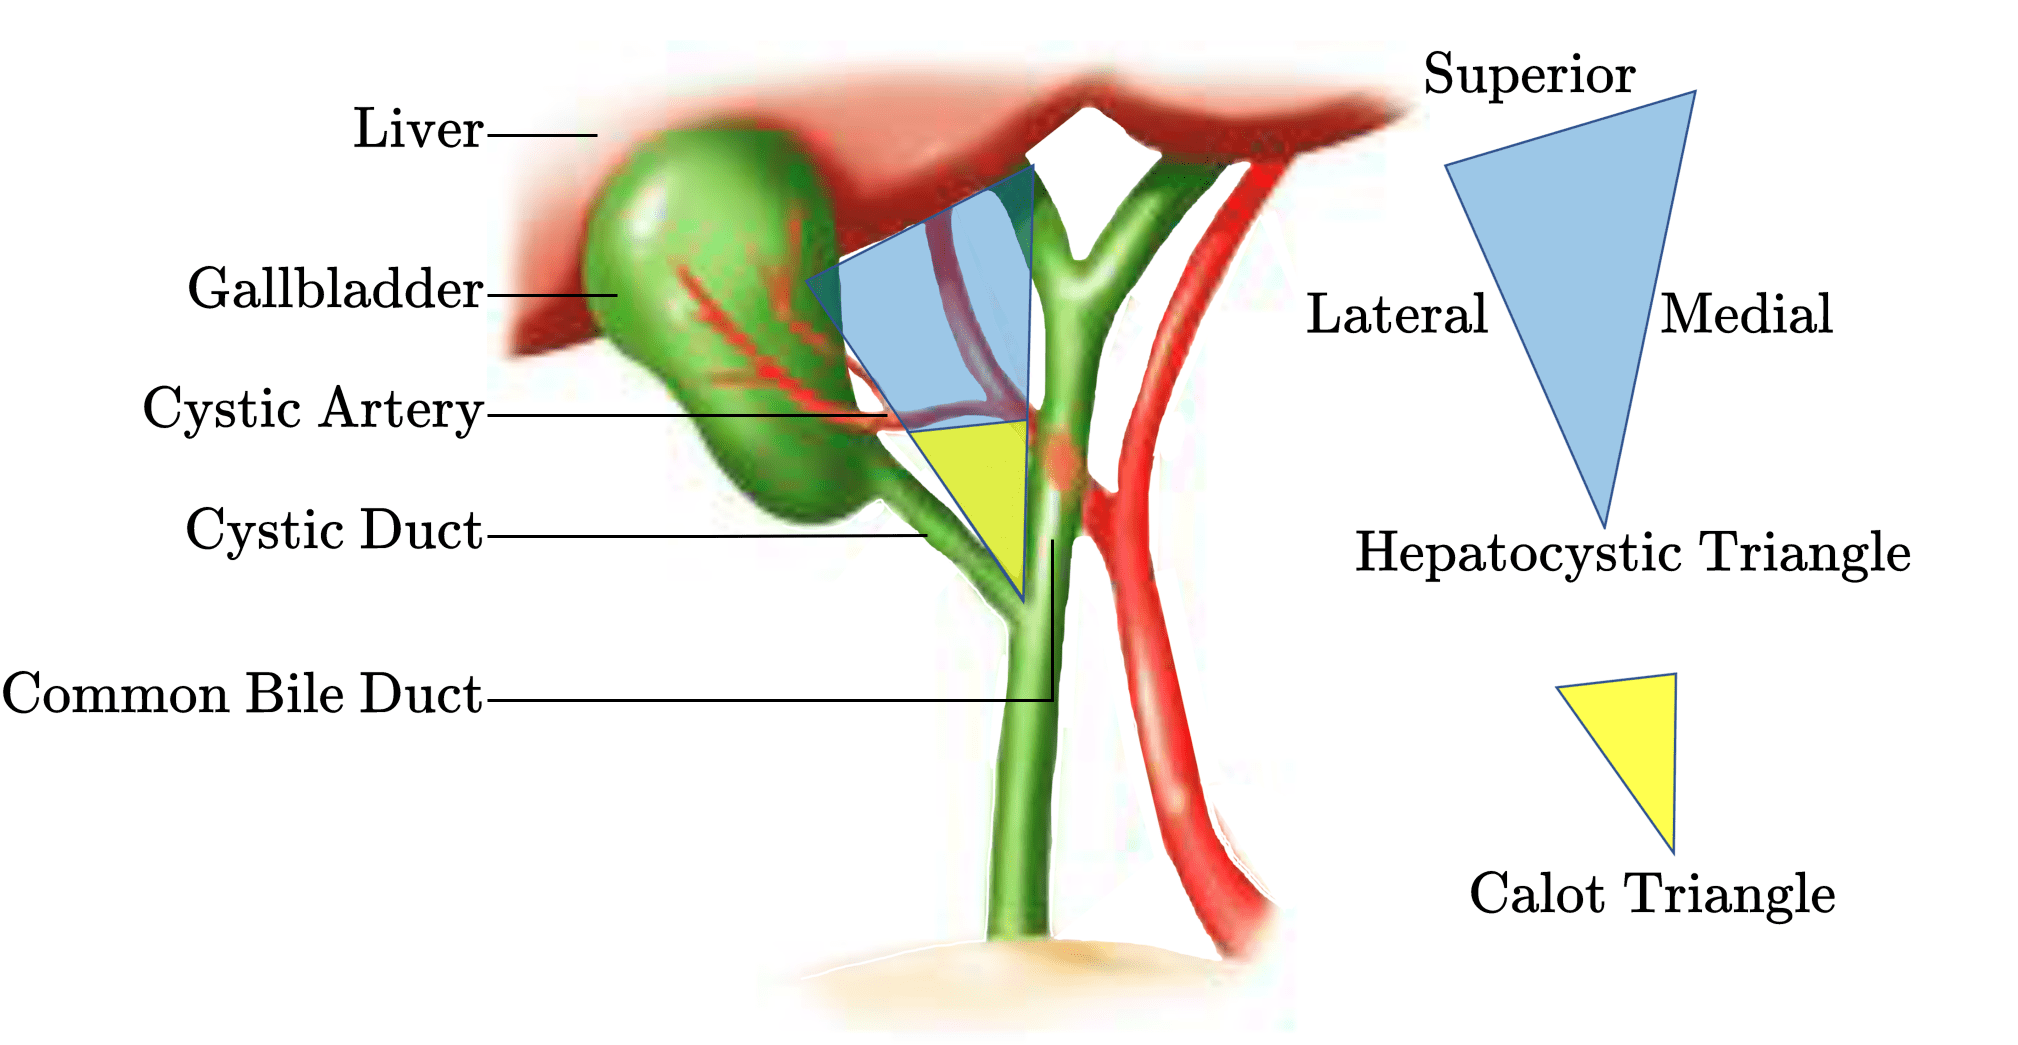
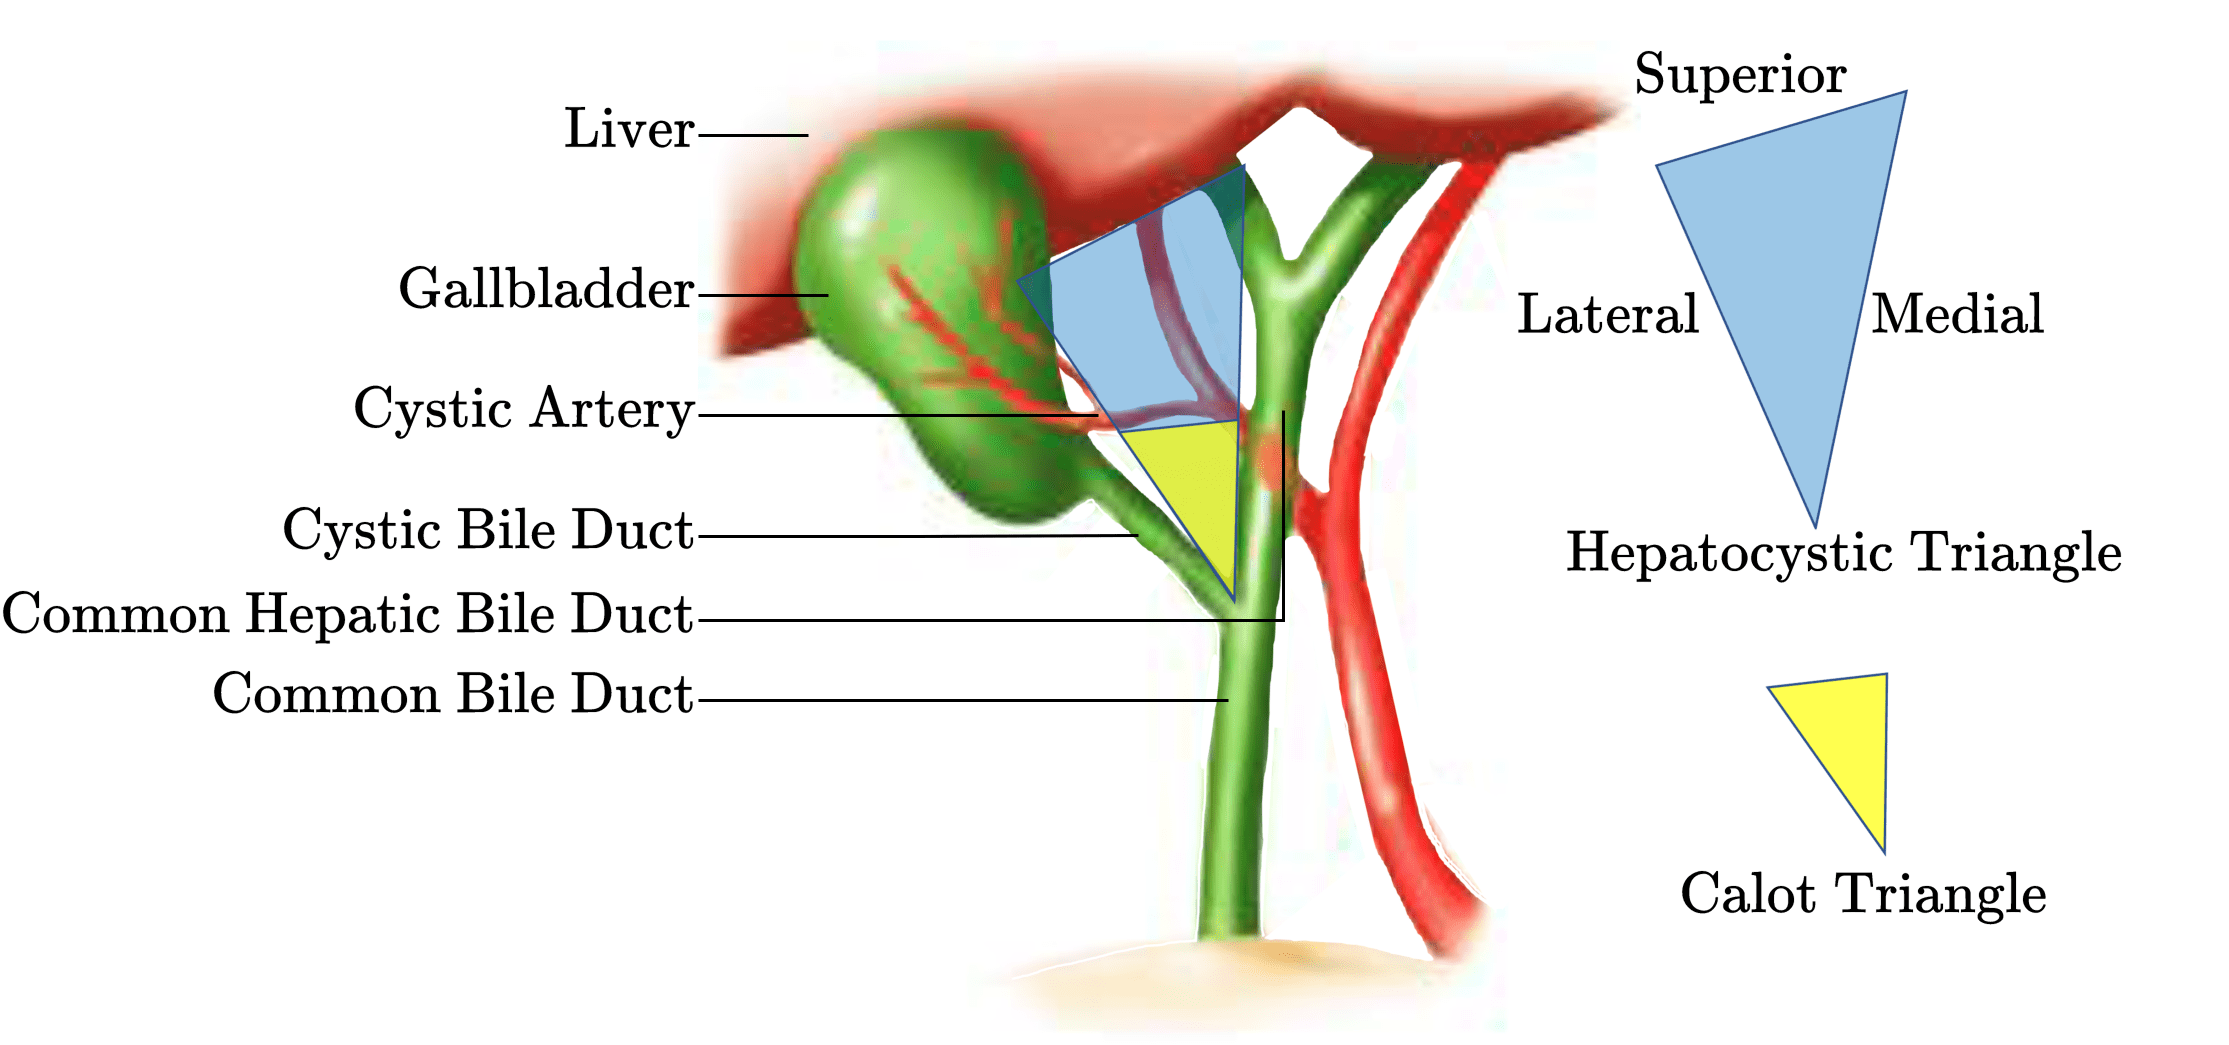
finished clinical introduction

diff --git a/introduction/chapter.tex b/introduction/chapter.tex
@@ -37,53 +37,48 @@ Even this relatively simple procedure requires multiple skilled workers. Therein
 
 \subsubsection{Laparoscopic Cholecystectomy Procedure}
 \label{in:sec:cholecystectomy_procedure}
-This paragraph explains the laparoscopic cholecystectomy in simplified terms and vastly refers to \cite{ALES5766}. To begin with, $\text{CO}_2$ is injected into the abdomen via a needle. The pressure is controlled through the laparoflator, see \figref{in:fig:room_setup}. Next, four small incisions are made for trocars T1-T4, which serve as entry point through the abdominal wall, shown in \figref{in:fig:cholecystectomy_incisions}. A laparoscope is inserted through T1 to grant an adequate view of the surgical scene. A grasper is inserted through T2 and used by the assistant to elevate the gallbladder. Trocars T3 and T4 are used by the surgeon to perform the cholecystectomy. Following the preparatory steps, the surgery can broadly be partitioned into six steps.
+This paragraph explains the laparoscopic cholecystectomy in simplified terms and vastly refers to \cite{ALES5766}. To begin with, $\text{CO}_2$ is injected into the abdomen via a needle. The pressure is controlled through the laparoflator, see \figref{in:fig:room_setup}. Next, four small incisions are made for trocars T1-T4, which serve as entry point through the abdominal wall, shown in \figref{in:fig:cholecystectomy_incisions}. A laparoscope is inserted through T1 to grant an adequate view of the surgical scene. A grasper is inserted through T2 and used by the assistant to elevate the gallbladder. Trocars T3 and T4 are used by the surgeon to perform the cholecystectomy. It is important to identify anatomical landmarks before other steps are attempted. A good exposure of the surgical area is achieved through adequate patient and port positioning \cite{gupta2023achieve}. Following the preparatory steps, the surgery can broadly be partitioned into six steps. These steps will be explained in the following.
 
 \begin{figure}
     \centering
-    \includegraphics[width=0.8\textwidth]{introduction/fig/24_01_26_cholecystectomy_incisions.pdf}
+    \includegraphics[width=0.9\textwidth]{introduction/fig/24_01_26_cholecystectomy_incisions.pdf}
     \caption{Common cholecystectomy incisions. Several incisions are made for the trocars T1-T4. Image with courtesy of \cite{ALES5766} and modified to include port descriptions and organs. Refers to \secref{in:sec:cholecystectomy_procedure}}
     \label{in:fig:cholecystectomy_incisions}
 \end{figure}
 
-\paragraph{Dissection of the Hepatocystic Triangle} The goal is to expose the hepatocystic trianlge \cite{mischinger2020critical}, see \figref{in:fig:hepatocystic_triangle}. First, the gallbladder is gently pulled upward over the liver, and its neck is pulled downward to expose its different parts, as can be seen in \figref{in:fig:cholecystectomy_incisions}. Swollen gallbladders are precautiously poked to prevent perforation with leakage of bile and gallstones. Potential adhesions (scarred connections to other organs) are carefully separated using cautery and regular tools, avoiding the area near the duodenum (beginning of the small intestine).
-
-
-% \paragraph{Hepatocystic Triangle Dissection} The goal is to clear away fat and tissue around the gallbladder and to clear the hepatocystic triangle, see \figref{in:fig:hepatocystic_triangle}. To start, the gallbladder is gently pulled upward over the liver, and its neck is pulled downward to expose its different parts, as can be seen in \figref{in:fig:cholecystectomy_incisions} and \figref{in:fig:hepatocystic_triangle}. Swollen gallbladders are precautiously poked to prevent perforation with leakage of bile and gallstones. Potential adhesions (scarred connections to other organs) are carefully separated using cautery and regular tools, avoiding the area near the duodenum (beginning of the small intestine).
-
-% It is of utmost importance to identify the cystic artery and cystic duct without doubt prior to 
-
-\paragraph{Establishing the Critical View of Safety} To ensure safety, three things are checked: the area around the gallbladder's neck is free of fat and tissue, the lower part of the gallbladder is separated from the liver, and only two structures (cystic duct and cystic artery) enter the gallbladder. Once this safe view is achieved, the surgeon and assistant double-check before cutting or clipping anything. Understanding variations in anatomy is crucial to avoid mistakes.
+\paragraph{Step 1: Dissection of the Hepatocystic Triangle} The goal is to expose the hepatocystic trianlge \cite{mischinger2020critical}, see \figref{in:fig:hepatocystic_triangle}. The gallbladder is gently pulled upward over the liver and its neck is pulled downward to expose its different parts, as can be seen in \figref{in:fig:cholecystectomy_incisions}. Swollen gallbladders are precautiously decompressed with a needle to prevent perforation with leakage of bile and gallstones. Potential adhesions (scarred connections to other organs) are carefully separated using cautery and regular tools, avoiding the area near the duodenum (beginning of the small intestine). Next, the hepatocystic triangle is dissected by carefully removing fibrous and fatty tissue. It is of utmost importance that no tubular structure may be damaged until cystic duct and cystic artery are identified \cite{mischinger2020critical}.
 
 \begin{figure}
     \centering
-    \includegraphics[width=0.6\textwidth]{introduction/fig/24_02_03_hepatocystic_triangle.png}
-    \caption{The bile duct (green), together with liver and gallbladder form the hepatocystic triangle, which is often covered in fat tissue. Image with courtesy of \cite{mischinger2020critical} and updated font.}
+    \includegraphics[width=0.8\textwidth]{introduction/fig/24_02_03_hepatocystic_triangle.png}
+    \caption{The bile duct (green), together with liver and gallbladder form the hepatocystic triangle, which is often covered in fat tissue. Image with courtesy of \cite{mischinger2020critical} and updated font. Refers to \secref{in:sec:cholecystectomy_procedure}.}
     \label{in:fig:hepatocystic_triangle}
 \end{figure}
 
-\paragraph{Clipping and Cutting the Cystic Artery} To save costs, a tool with clips is used to close the cystic artery, and then it is cut. Care is taken not to displace the clips, leaving a small piece of tissue to prevent any accidental movement during or after the procedure.
+\paragraph{Step 2: Establishing the Critical View of Safety} The critical view of safety defines a state that is achieved through the hepatocystic triangle dissection, it is shown in \figref{in:sec:cholecystectomy_procedure}. No tubular structure may be damaged prior to achieving the critical view of safety. The critical view of safety is defined by three conditions. First, the hepatocystic triangle is cleared of all fat and fibrous tissue. The common bile duct and the common hepatic bile duct are identified but not exposed. Second, the lower third of the gallbladder is separated from the liver. Third, only two structures are identified entering the gallbladder, the cystic duct and the cystic artery. The surgery is halted in this stage and reflected upon. Potential anatomical variations are discussed.
 
-\paragraph{Checking and Cutting the Cystic Duct} An X-ray is often taken to check the ducts. If needed, the cystic duct is clipped and cut. If there are concerns about the clips, a special loop suture is used instead.
+\begin{figure}
+    \centering
+    \includegraphics[width=0.6\textwidth]{introduction/img/critical_view_of_safety.png}
+    \caption{The critical view of safety. The cystic artery is indicated in red, the cystic duct in green. Image provided with courtesy of \cite{ALES5766}. Refers to \secref{in:sec:cholecystectomy_procedure}.}
+    \label{fig:enter-label}
+\end{figure}
 
-\paragraph{Separating Gallbladder from Liver} After cutting the cystic duct, the gallbladder is carefully dissected from the liver. Special tools and techniques are used to avoid bleeding or bile leakage. Any bleeding or spillage is cleaned up. The gallbladder is then put in a bag and removed through a port.
+\paragraph{Step 3: Clipping and Cutting the Cystic Artery} After establishing the critical view of safety, the next step is to separate the gallbladder from the cystic artery. Therefore, the csytic artery is clipped twice proximally (i.e. the side of the artery that stays inside the body) and once distally (i.e. on the side of the to be removed gallbladder). The distal clip should be attached close to the neck of the gallbladder to leave sufficient space for cutting. Next, the artery is cut with hook scissors, leaving some space at the proximal end to prevent the clip from detaching.
 
-\paragraph{Removing Specimen and Closing} The bag containing the gallbladder is taken out through a port, and the skin and fascia at the extraction site are closed with sutures. All gas used during the procedure is released from the ports.
+\paragraph{Step 4: Operative Cholangiography and Cutting the Cystic Duct} Post cutting the cystic artery, it is common to perform cholangiography, using the C-arm X-ray, which is shown in \figref{in:fig:room_setup}. This is to verify a functioning bile tree. First, the cystic duct is clipped distally, and then incised partially with hook scissors. Next, the common bile duct is flushed with saline and a constrast agent is injected. The fluoroscopy should reveal free flow of the contrast agent into the common hepactic bile duct, its left and right branches into the liver, as well as free flow into the duodenum via the common bile duct. Once satisfactory flow is observed, the cystic duct is clipped proximally and cut as the cystic artery in step three.
 
-% organs: https://commons.wikimedia.org/wiki/File:Digestive_system_showing_bile_duct.svg?uselang=en#Licensing
+% also refer to \secref{in:sec:cholecystectomy_setup}
+% ERCP: https://www.sages.org/publications/patient-information/patient-information-for-ercp-endoscopic-retrograde-cholangio-pancreatography-from-sages/
 
+\paragraph{Step 5: Separating Gallbladder from Liver} After cutting the cystic duct, the gallbladder is carefully dissected from the liver bed, commonly using an L-hook with monopolar energy. Care must be taken to prevent liver bed injury as this may cause bleeding and or bile leakage from superficial ducts. Entry into the gallbladder should be avoided as this may cause bile and bile stone leakage, which, however, can be removed with a suction irrigator, as shown in \figref{in:sec:cholecystectomy_setup}. In complex conditions with gallbladder inflammation, an ultrasound-driven harmonic scalpel may be used to perform ultrasonic coagulation to maintain hemostasis (blood thickening). Finally, the liver bed is once more inspected before separating the gallbladder fully. The surgical side is once more irrigated and cleaned of any blood and bile. The gallbladder is then put into a specimen bag.
 
-
-% TODO: add a figure that shows the workspace etc
-% setup figure: https://www.sages.org/image-library/basic-room-setup/
-% setup figure: https://www.researchgate.net/publication/267805211_Ergonomic_considerations_in_natural_orifice_translumenal_endoscopic_surgery_NOTES_A_case_study
-% explanatory video: https://ales.amegroups.org/article/view/5766/html also contains anathomy image
-
-% In parts of this work
+\paragraph{Step 6: Removing Specimen and Closing} Once in a bag, the gallbladder is removed through the T1 port, refer to \figref{in:fig:cholecystectomy_incisions}. This may require widening of the opening in the presence of larger stones. The ports T1-T4 are being vented to remove residual $\text{CO}_2$. Following that, the skin and fascia at the extraction site are closed with sutures.
 
 \section{Robot Assisted Laparoscopy}
 \label{in:sec:robot_assisted_laparoscopy}
 
+In the previous sections it was shown that...
 
 \begin{itemize}
     \item make the case for robotic laparoscopic surgery
